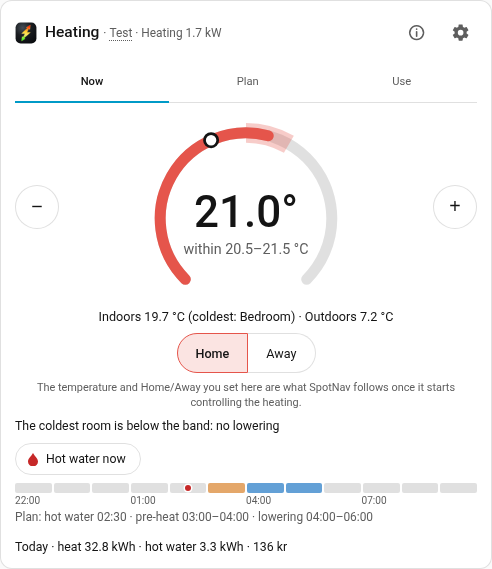
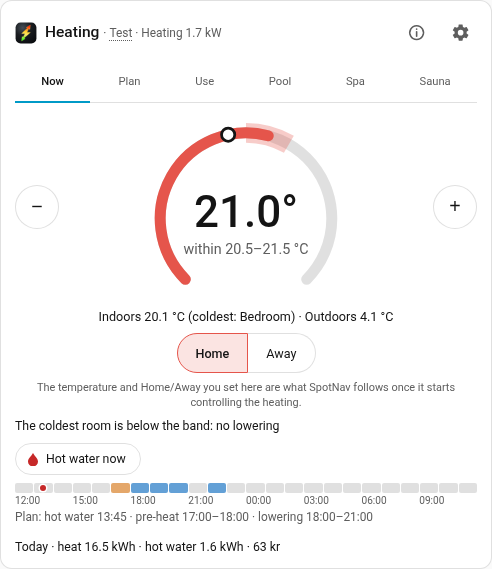
Take the 3.0.0b5 documentation pictures: the heat card's Pool, Spa and Sauna tabs and their settings, the priority list, the phones, and the house and heat cards with the new tab row and plan layers

diff --git a/docs/pool-spa.md b/docs/pool-spa.md
@@ -11,6 +11,12 @@ SpotNav plans a pool (its circulation pump and its heat pump), a spa and a sauna
 filtering and the pool's heat in the sunniest or cheapest hours, the spa and the sauna warm by the times you book. The
 heat card's **Pool**, **Spa** and **Sauna** tabs show the plan and what SpotNav would do ([the heat card](heat-pumps.md#the-heat-card)).
 
+![The heat card's Pool tab: the dial for the water, Season open, the heat pump heating towards 28 °C read from the heat pump, Extra filtering, the next 24 hours and today's filtering hours against the need](images/heat-card-pool.png)
+
+![The heat card's Spa tab: the dial for the bathing temperature, when the spa is ready, Bathe now, the bath times and the heat-up and hold as a band](images/heat-card-spa.png)
+
+![The heat card's Sauna tab: the dial for the sauna's temperature, off until the next session, Heat now, the sessions and the heat-up before this evening's session](images/heat-card-sauna.png)
+
 **Watched by default.** Nothing is written until an administrator turns on the load's own switch in the gear's
 **Pool**, **Spa** or **Sauna** section: **Control the circulation**, **Control the pool heat pump**, **Control the spa** or
 **Control the sauna**. Without it the tab says what SpotNav *would* do.
@@ -23,6 +29,12 @@ circulation, water sensor, filtering per day, the powers and the two control swi
 declaration, **Control the sauna**). The heat card's phones and what they hear about (**Not ready in time**, **Pool
 season**) close the last of them; they cover all three. The gear on the heat card opens at the shown tab's section.
 **Heating** keeps the house's own heat. As everywhere, only an administrator can change them.
+
+![The Pool section: the heat pump, the circulation pump, the water sensor, filtering per day, the two powers and the two control switches](images/settings-pool.png)
+
+![The Spa section: the spa, the temperature between baths, the heater's power and Control the spa](images/settings-spa.png)
+
+![The Sauna section: the sauna, the heater's power and Control the sauna](images/settings-sauna.png)
 
 ## The pool's water temperature
 

diff --git a/docs/notifications.md b/docs/notifications.md
@@ -28,6 +28,10 @@ settings of the house and heat cards. It lists the **phones**. Tap a phone to ch
 
 Only an administrator changes the phones in the card. In the SpotNav app a person changes their own phone.
 
+![The Notifications section: two phones, each with how many of its events are on and which app reaches it](images/settings-notifications.png)
+
+![One phone opened: Send to this phone, the Charging events and the Pool season, ticked as by default](images/settings-notification-phone.png)
+
 **One phone, one entry.** A phone can reach Home Assistant through the Companion app, the SpotNav app, or both. With
 both, they are one entry and SpotNav tells that phone through the SpotNav app only, never twice; see
 [Which app tells the phone](#which-app-tells-the-phone). When the SpotNav app is paired, it is joined to its Companion

diff --git a/docs/site-and-load-balancing.md b/docs/site-and-load-balancing.md
@@ -466,6 +466,8 @@ battery, a spa between baths, the pool's circulation beyond the day's filtering 
 shows only once the site has that load). Move a row with its up and down buttons and save. The apps show the list,
 read only.
 
+![The Priority editor: house heat, the car, the spa with a booked bath, the sauna, the home battery, the spa between baths, the pool's circulation and the pool's heat pump, each with up and down buttons](images/settings-priority.png)
+
 The default, top to bottom: **house heat, the cars, the spa with a booked bath, the sauna, house cooling, the water
 heater, the home battery, the spa between baths, the pool's circulation, the pool's heat pump.** The list is read in
 both directions:
